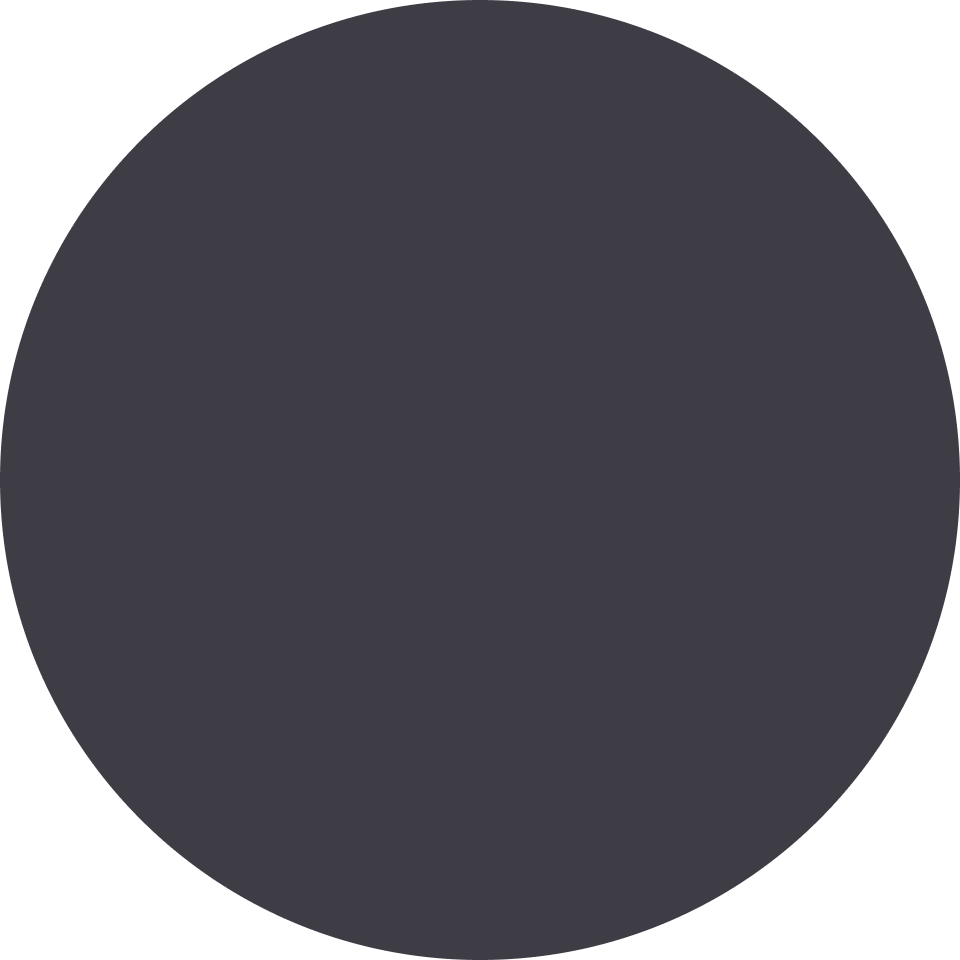
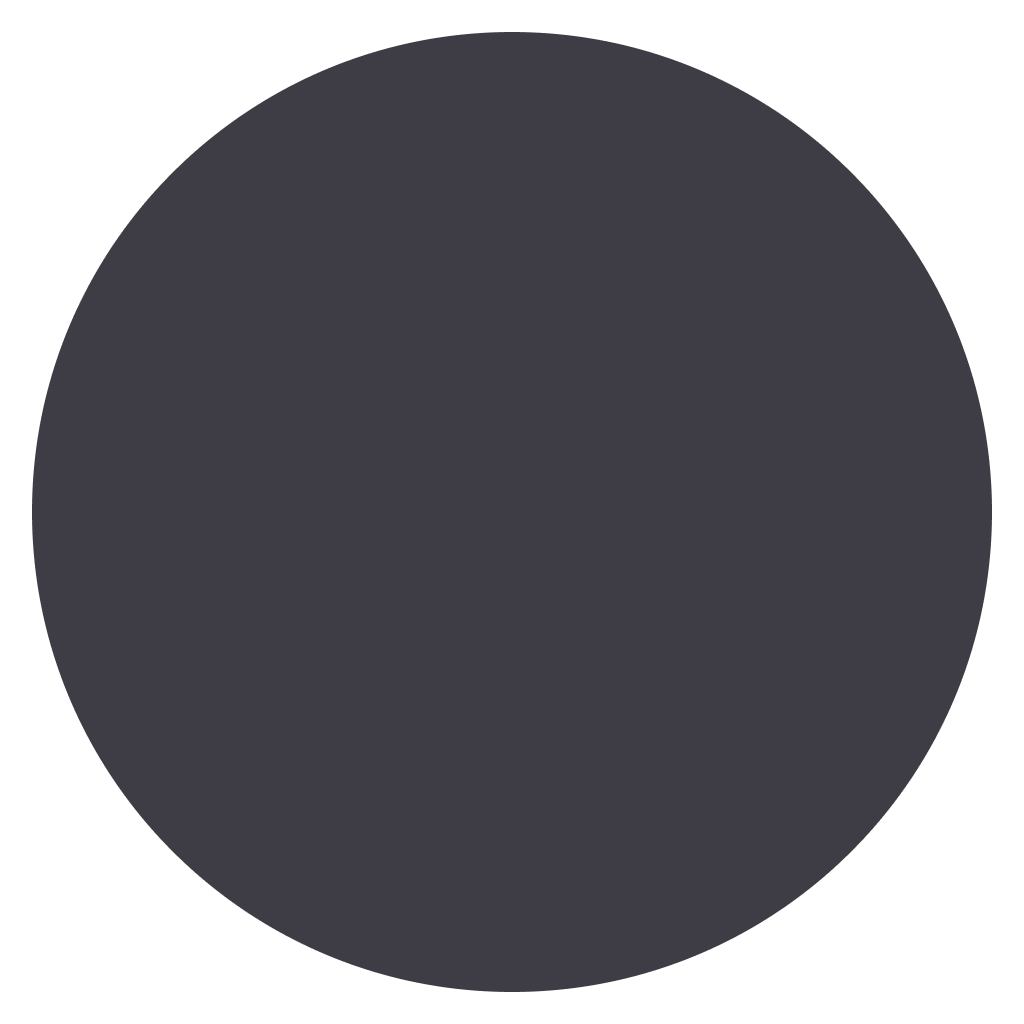
General Fixes + Achievements Function done
-updated the empty.png asset to better match other icons
-daily stats now also reset if opening the app on a new day

Changed region(s): [[0.0, 0.0, 1.0, 1.0]]

diff --git a/copy_of_david_app/lib/achievements.dart b/copy_of_david_app/lib/achievements.dart
@@ -1,9 +1,12 @@
+import 'package:david_app/backend_services/auth.dart';
 import 'package:flutter/material.dart';
 import 'package:animated_toggle_switch/animated_toggle_switch.dart';
 import 'size_config.dart';
 import 'package:google_fonts/google_fonts.dart';
 import 'package:font_awesome_flutter/font_awesome_flutter.dart';
 import 'package:david_app/shared/singleton.dart';
+import 'package:cloud_firestore/cloud_firestore.dart';
+import 'package:collection/collection.dart';
 
 class AchievementScreen extends StatefulWidget {
   const AchievementScreen({super.key});
@@ -12,49 +15,25 @@ class AchievementScreen extends StatefulWidget {
   State<AchievementScreen> createState() => _AchievementScreenState();
 }
 
-// class Pair<T1, T2> {
-//   final T1 a;
-//   final T2 b;
-
-//   Pair(this.a, this.b);
-// }
-
-// class Triple<T1, T2, T3> {
-//   final T1 a;
-//   final T2 b;
-//   final T3 c;
-
-//   Triple(this.a, this.b, this.c);
-// }
-
 class _AchievementScreenState extends State<AchievementScreen> {
   bool positive = false;
-  int selection = 0;
 
-  Singleton _singleton = Singleton();
+  final Singleton _singleton = Singleton();
 
-  // final achievements = [
-  //   Pair("assets/achievements/ID1.png", "This is a test."),
-  //   Pair("assets/achievements/ID2.png", "This is a test."),
-  //   Pair("assets/achievements/ID3.png", "This is a test."),
-  //   Pair("assets/achievements/ID4.png", "This is a test."),
-  //   Pair("assets/achievements/ID5.png", "This is a test."),
-  // ];
-
-  // // unlocked, puchase, pending
-  // final borders = [
-  //   Triple("ID1", "This is a test.", "unlocked"),
-  //   Triple("ID2", "This is a test.", "purchase"),
-  //   Triple("ID3", "This is a test.", "pending"),
-  //   Triple("ID4", "This is a test.", "purchase"),
-  // ];
+  @override
+  void initState() {
+    super.initState();
+    Singleton().addListener(() {
+      setState(() {});
+    });
+  }
 
   @override
   Widget build(BuildContext context) {
-    print(_singleton.userData!["achievements"]);
-    print(_singleton.userData!["achievements"]["active"].runtimeType);
+    // print(_singleton.userData!["achievements"]);
+    // print(_singleton.userData!["achievements"]["active"].runtimeType);
 
-    List<dynamic> active = _singleton.userData!["achievements"]["active"];
+    // List<dynamic> active = _singleton.userData!["achievements"]["active"];
 
     return !positive
         ? Scaffold(
@@ -79,17 +58,17 @@ class _AchievementScreenState extends State<AchievementScreen> {
                   print("NEW: $b");
 
                   setState(() => positive = b);
-                  return Future.delayed(Duration(seconds: 1));
+                  return Future.delayed(const Duration(seconds: 1));
                 },
                 colorBuilder: (b) => b ? Colors.orange : Colors.green,
                 iconBuilder: (value) => value
-                    ? Icon(FontAwesomeIcons.user)
+                    ? const Icon(FontAwesomeIcons.user)
                     : Container(
                         width: 100,
                         height: 100,
                         decoration: const BoxDecoration(
                             color: Colors.green, shape: BoxShape.circle),
-                        child: Icon(FontAwesomeIcons.trophy),
+                        child: const Icon(FontAwesomeIcons.trophy),
                       ),
                 textBuilder: (value) => value
                     ? Center(
@@ -120,14 +99,15 @@ class _AchievementScreenState extends State<AchievementScreen> {
                             children: [
                               InkWell(
                                 onTap: () {
-                                  selection = 0;
-                                  print("Hello $selection");
+                                  _singleton.achievementSelection = 0;
+                                  print(
+                                      "Hello ${_singleton.achievementSelection}");
                                   setState(() {});
                                 },
                                 child: Stack(
                                     alignment: Alignment.center,
                                     children: [
-                                      (selection == 0)
+                                      (_singleton.achievementSelection == 0)
                                           ? Container(
                                               width: 80,
                                               height: 80,
@@ -153,14 +133,15 @@ class _AchievementScreenState extends State<AchievementScreen> {
                             children: [
                               InkWell(
                                   onTap: () {
-                                    selection = 1;
-                                    print("Hello $selection");
+                                    _singleton.achievementSelection = 1;
+                                    print(
+                                        "Hello ${_singleton.achievementSelection}");
                                     setState(() {});
                                   },
                                   child: Stack(
                                       alignment: Alignment.center,
                                       children: [
-                                        (selection == 1)
+                                        (_singleton.achievementSelection == 1)
                                             ? Container(
                                                 width: 80,
                                                 height: 80,
@@ -185,14 +166,15 @@ class _AchievementScreenState extends State<AchievementScreen> {
                             children: [
                               InkWell(
                                   onTap: () {
-                                    selection = 2;
-                                    print("Hello $selection");
+                                    _singleton.achievementSelection = 2;
+                                    print(
+                                        "Hello ${_singleton.achievementSelection}");
                                     setState(() {});
                                   },
                                   child: Stack(
                                       alignment: Alignment.center,
                                       children: [
-                                        (selection == 2)
+                                        (_singleton.achievementSelection == 2)
                                             ? Container(
                                                 width: 80,
                                                 height: 80,
@@ -291,7 +273,7 @@ class _AchievementScreenState extends State<AchievementScreen> {
                 },
                 colorBuilder: (b) => b ? Colors.orange : Colors.green,
                 iconBuilder: (value) => value
-                    ? Icon(FontAwesomeIcons.user)
+                    ? const Icon(FontAwesomeIcons.user)
                     : const Icon(FontAwesomeIcons.trophy),
                 textBuilder: (value) => value
                     ? Center(
@@ -313,7 +295,7 @@ class _AchievementScreenState extends State<AchievementScreen> {
                   height: SizeConfig.blockSizeVertical! * 15,
                   width: SizeConfig.blockSizeHorizontal! * 100,
                   child: Container(
-                      color: Color.fromARGB(255, 115, 182, 236),
+                      color: const Color.fromARGB(255, 115, 182, 236),
                       child: Row(
                         mainAxisAlignment: MainAxisAlignment.center,
                         crossAxisAlignment: CrossAxisAlignment.center,
@@ -339,7 +321,7 @@ class _AchievementScreenState extends State<AchievementScreen> {
                       )),
                 ),
                 Text(
-                  "100,000",
+                  "${_singleton.userData!['currency']}",
                   style: GoogleFonts.comicNeue(
                       fontSize: 65, fontWeight: FontWeight.bold),
                 ),
@@ -403,7 +385,7 @@ class _AchievementScreenState extends State<AchievementScreen> {
 }
 
 class AchievementEntry extends StatelessWidget {
-  const AchievementEntry(
+  AchievementEntry(
       {super.key,
       required this.id,
       required this.imagePath,
@@ -411,6 +393,8 @@ class AchievementEntry extends StatelessWidget {
   final String id;
   final String imagePath;
   final String description;
+
+  final _singleton = Singleton();
 
   @override
   Widget build(BuildContext context) {
@@ -420,7 +404,29 @@ class AchievementEntry extends StatelessWidget {
         child: Card(
             color: const Color.fromARGB(255, 219, 219, 219),
             child: InkWell(
-              onTap: () {},
+              onTap: () {
+                if (_singleton.userData!['achievements']['unlocked']
+                    .contains(id)) {
+                  // if unlocked
+                  List<dynamic> achievements =
+                      List.from(_singleton.userData!['achievements']['active']);
+                  achievements[_singleton.achievementSelection] = id;
+                  Function eq = const ListEquality().equals;
+                  if (!eq(achievements,
+                      _singleton.userData!['achievements']['active'])) {
+                    // update
+                    print("different");
+                    FirebaseFirestore.instance
+                        .collection('user_data')
+                        .doc(Authentication().user?.uid)
+                        .update({'achievements.active': achievements}).then(
+                            (value) => {
+                                  _singleton.setAchievementSelection(
+                                      _singleton.achievementSelection)
+                                });
+                  }
+                }
+              },
               child: Row(
                 mainAxisAlignment: MainAxisAlignment.center,
                 crossAxisAlignment: CrossAxisAlignment.center,

diff --git a/copy_of_david_app/lib/shared/singleton.dart b/copy_of_david_app/lib/shared/singleton.dart
@@ -1,4 +1,4 @@
-import 'dart:ui';
+import 'package:flutter/material.dart';
 
 class Pair<T1, T2> {
   final T1 a;
@@ -15,7 +15,7 @@ class Triple<T1, T2, T3> {
   Triple(this.a, this.b, this.c);
 }
 
-class Singleton {
+class Singleton extends ChangeNotifier {
   static final Singleton _instance = Singleton._internal();
 
   // passes the instantiation to the _instance object
@@ -60,6 +60,14 @@ class Singleton {
     "ID3": const Color.fromARGB(255, 223, 46, 134),
     "ID4": const Color.fromARGB(255, 230, 177, 64),
   };
+
+  int achievementSelection = 0;
+
+  // setter for achievementSelection with notifyListeners()
+  void setAchievementSelection(int index) {
+    achievementSelection = index;
+    notifyListeners();
+  }
 }
 
 

diff --git a/copy_of_david_app/lib/userscreen.dart b/copy_of_david_app/lib/userscreen.dart
@@ -58,12 +58,10 @@ class _UserScreenState extends State<UserScreen> {
 
     if (_singleton.userData!["lastOnline"].toDate().day !=
         Timestamp.now().toDate().day) {
-      // FirebaseFirestore.instance
-      //     .collection("user_data")
-      //     .doc(Authentication().user?.uid)
-      //     .update(docData);
-
-      // Reset daily stats & reassign the lastOnline timestamp.
+      FirebaseFirestore.instance
+          .collection("user_data")
+          .doc(Authentication().user?.uid)
+          .update({"progress_in_km": 0, "lastOnline": Timestamp.now()});
     }
 
     _chartData = getData();
